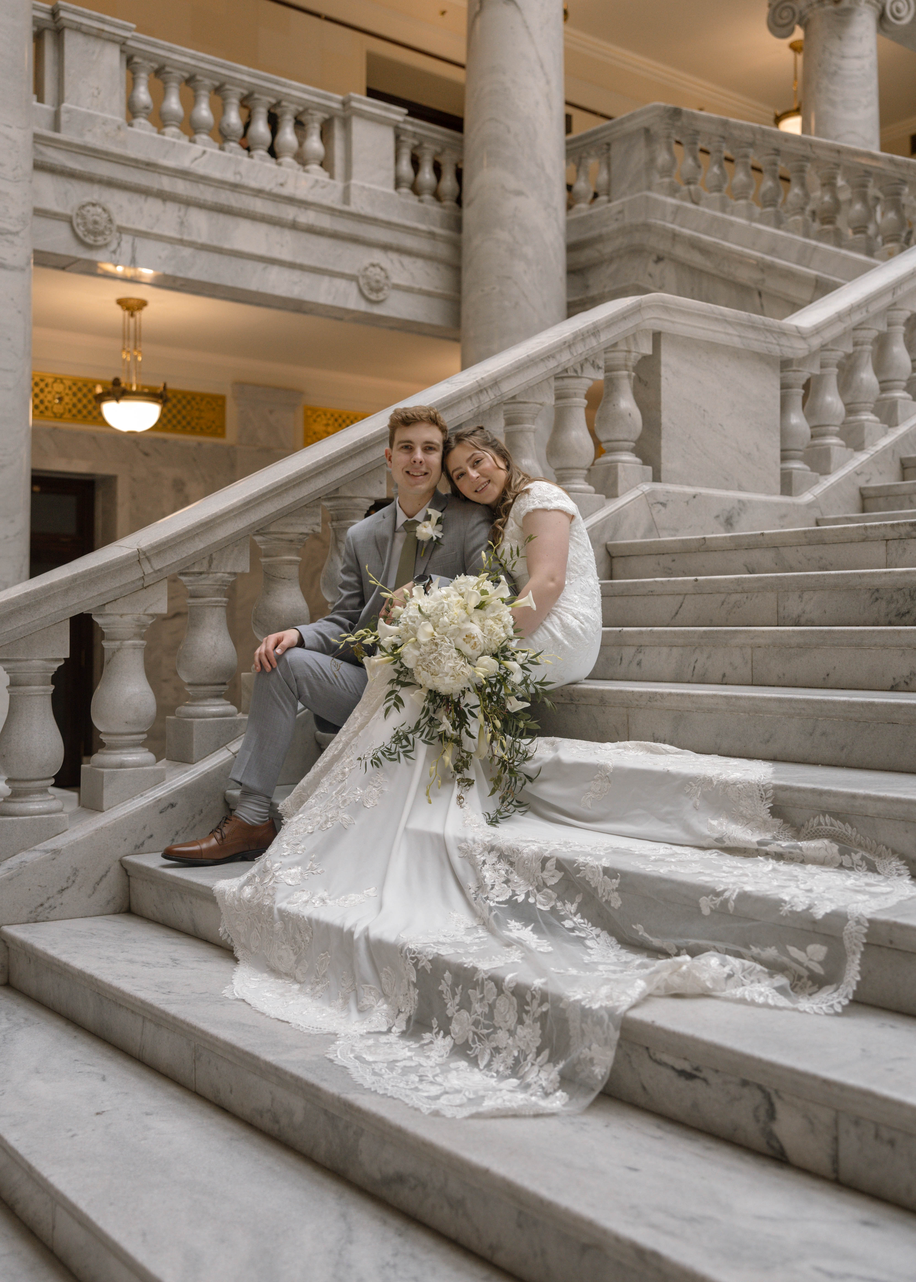
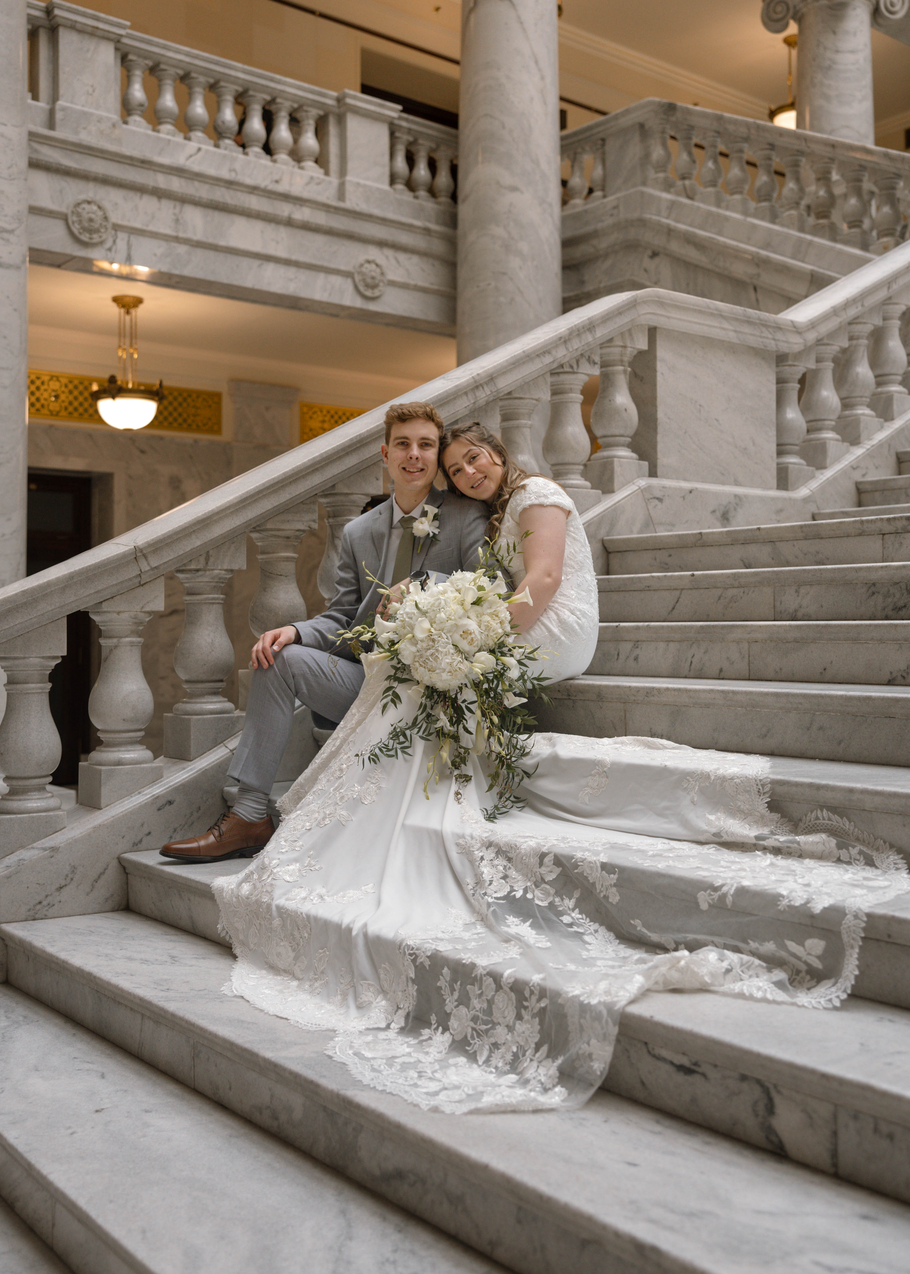
services and fees and pictures updates

diff --git a/index.html b/index.html
@@ -81,7 +81,7 @@ The project not only solidified my coding abilities but also deepened my appreci
 
 <!-- Services & Prices Section -->
 <section class="services-prices">
-    <img src="images/A49A8519.jpg" alt="Bridal couple">
+    <img src="images/A49A8940.jpg" alt="Bridal couple">
     <div class="services-prices-content">
         <h2>Services & Prices</h2>
         <p>I offer photography services in the following areas:</p>

diff --git a/servicesfees.html b/servicesfees.html
@@ -50,7 +50,7 @@
     <a href="portraitprices.html" class="service-item" style="background-image: url('images/A49A6166.jpg');">
         <h2>Portraits</h2>
     </a>
-    <a href="familyprices.html" class="service-item" style="background-image: url('images/C622697.jpg');">
+    <a href="familyprices.html" class="service-item" style="background-image: url('images/C62_2678.jpg');">
         <h2>Family Photos</h2>
     </a>
 </div>

diff --git a/bridalprices.html b/bridalprices.html
@@ -47,7 +47,7 @@
 
 <div class="prices-section">
     <div class="bridal-offer">
-        <img src="images/A49A7426.jpg" alt="Bridal Mini Coverage">
+        <img src="images/A49A6732.jpg" alt="Bridal Mini Coverage">
         <div class="price-details">
             <h2>Mini Bridals $150</h2>
             <ul>

diff --git a/weddingprices.html b/weddingprices.html
@@ -47,7 +47,7 @@
     </div>
 
     <div class="wedding-offer">
-        <img src="images/A49A8721.jpg" alt="Wedding Half Coverage">
+        <img src="images/A49A8237-2.jpg" alt="Wedding Half Coverage">
         <div class="price-details">
             <h2>Half Weddings $700+</h2>
             <ul>
